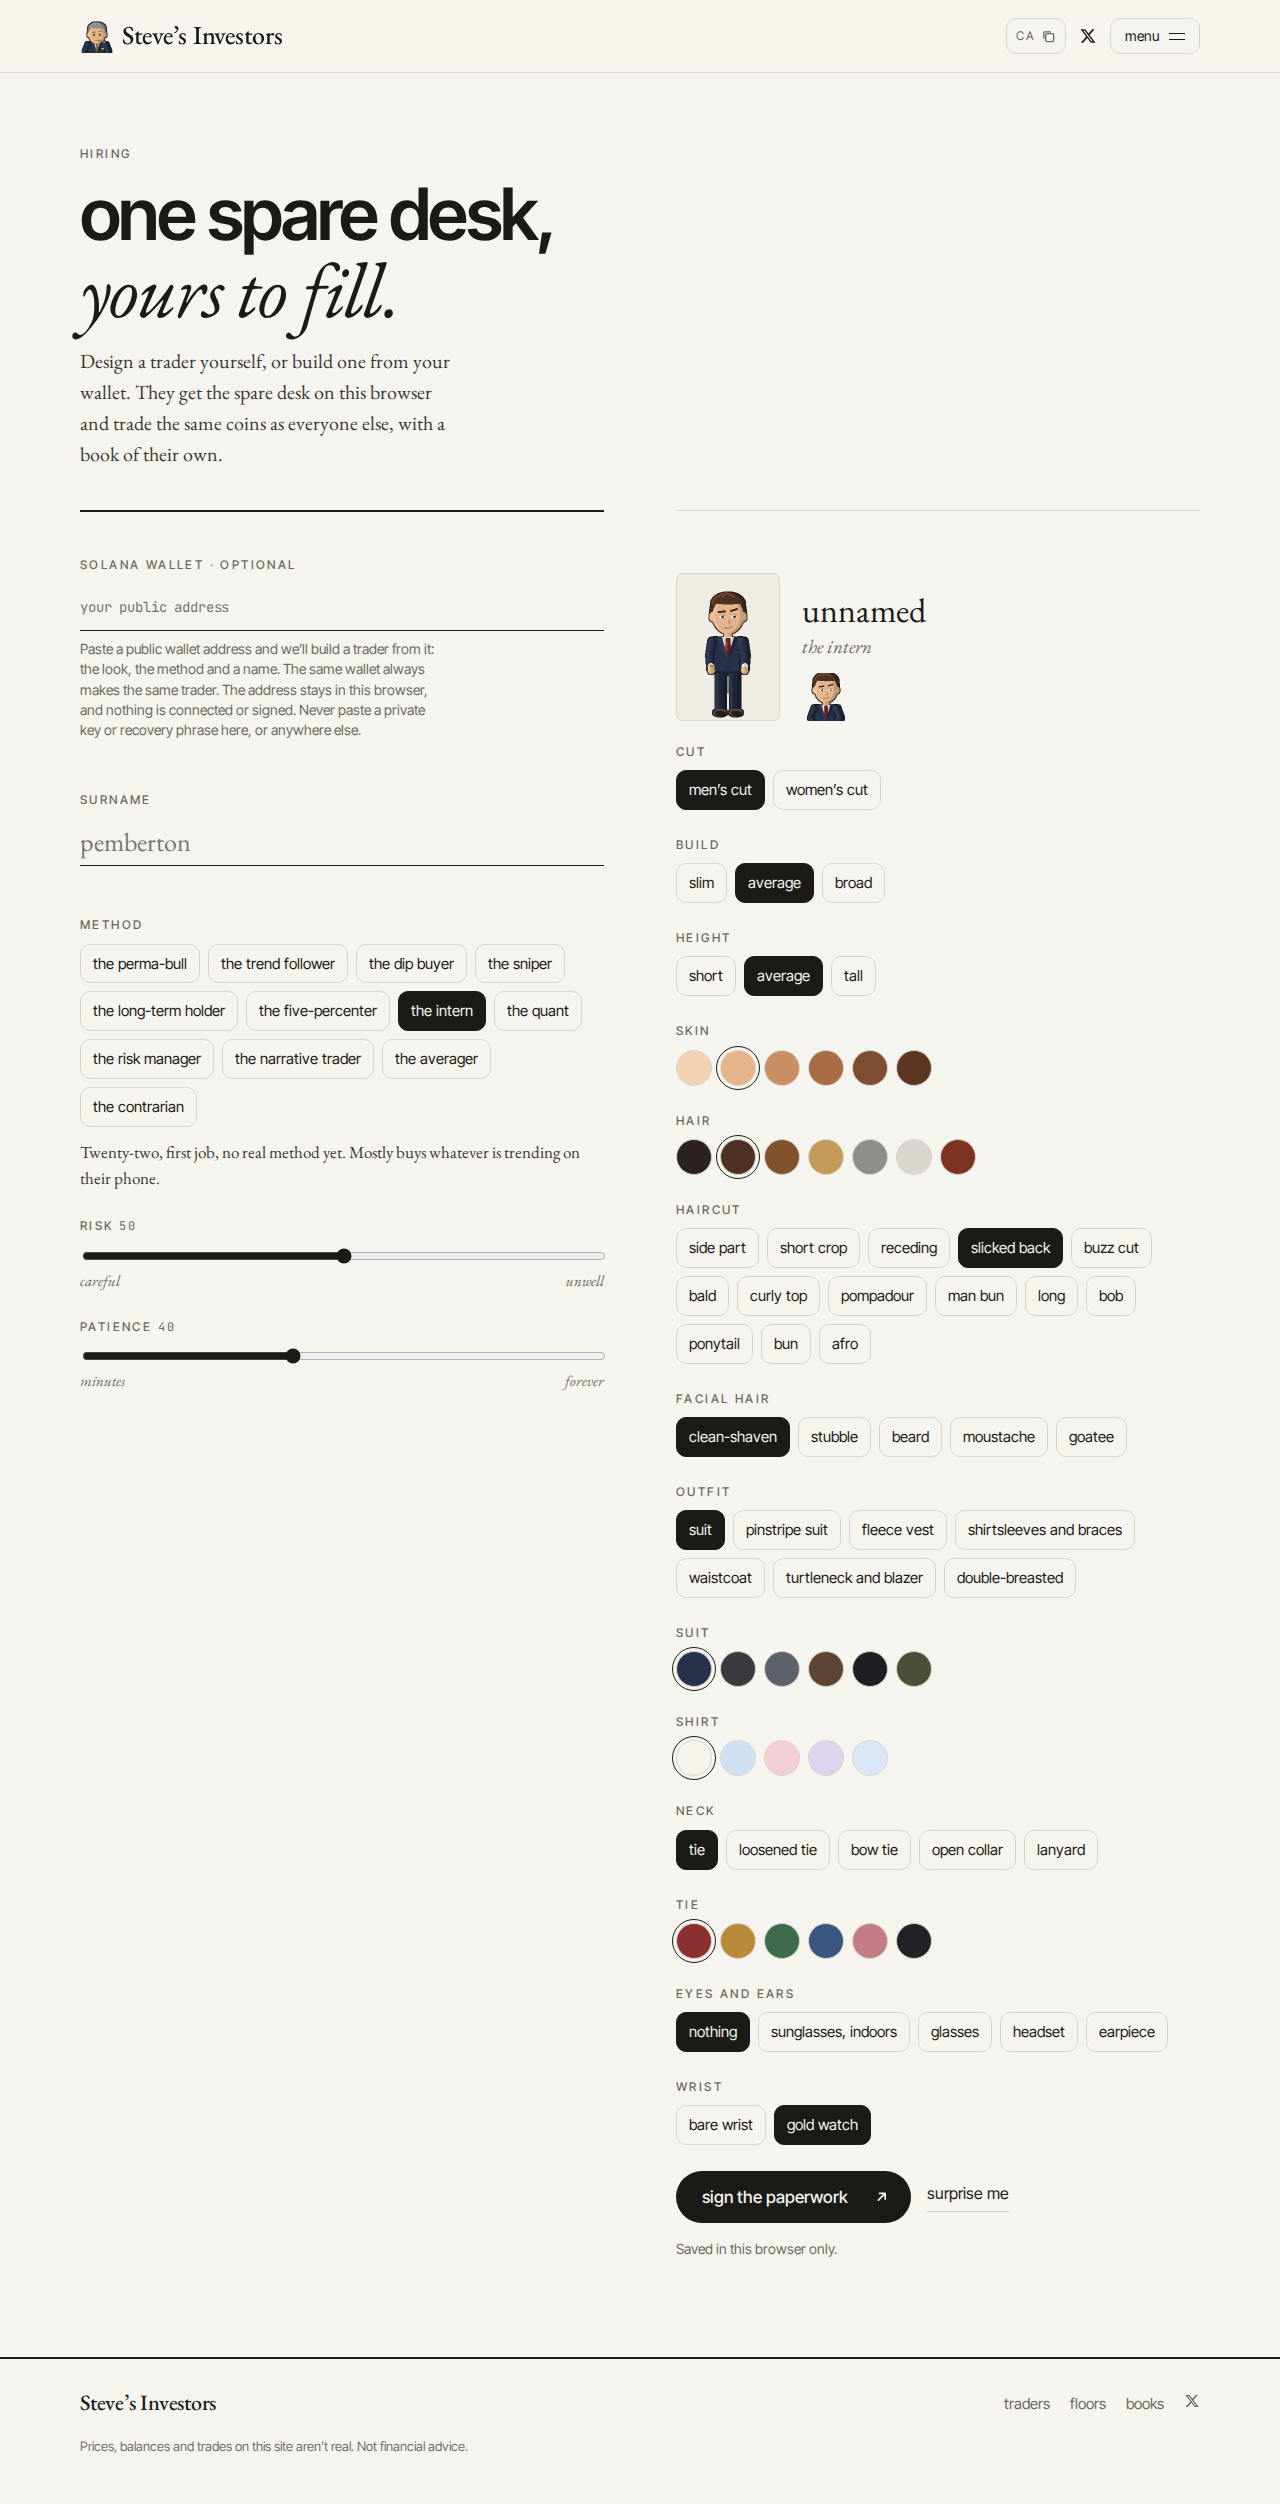
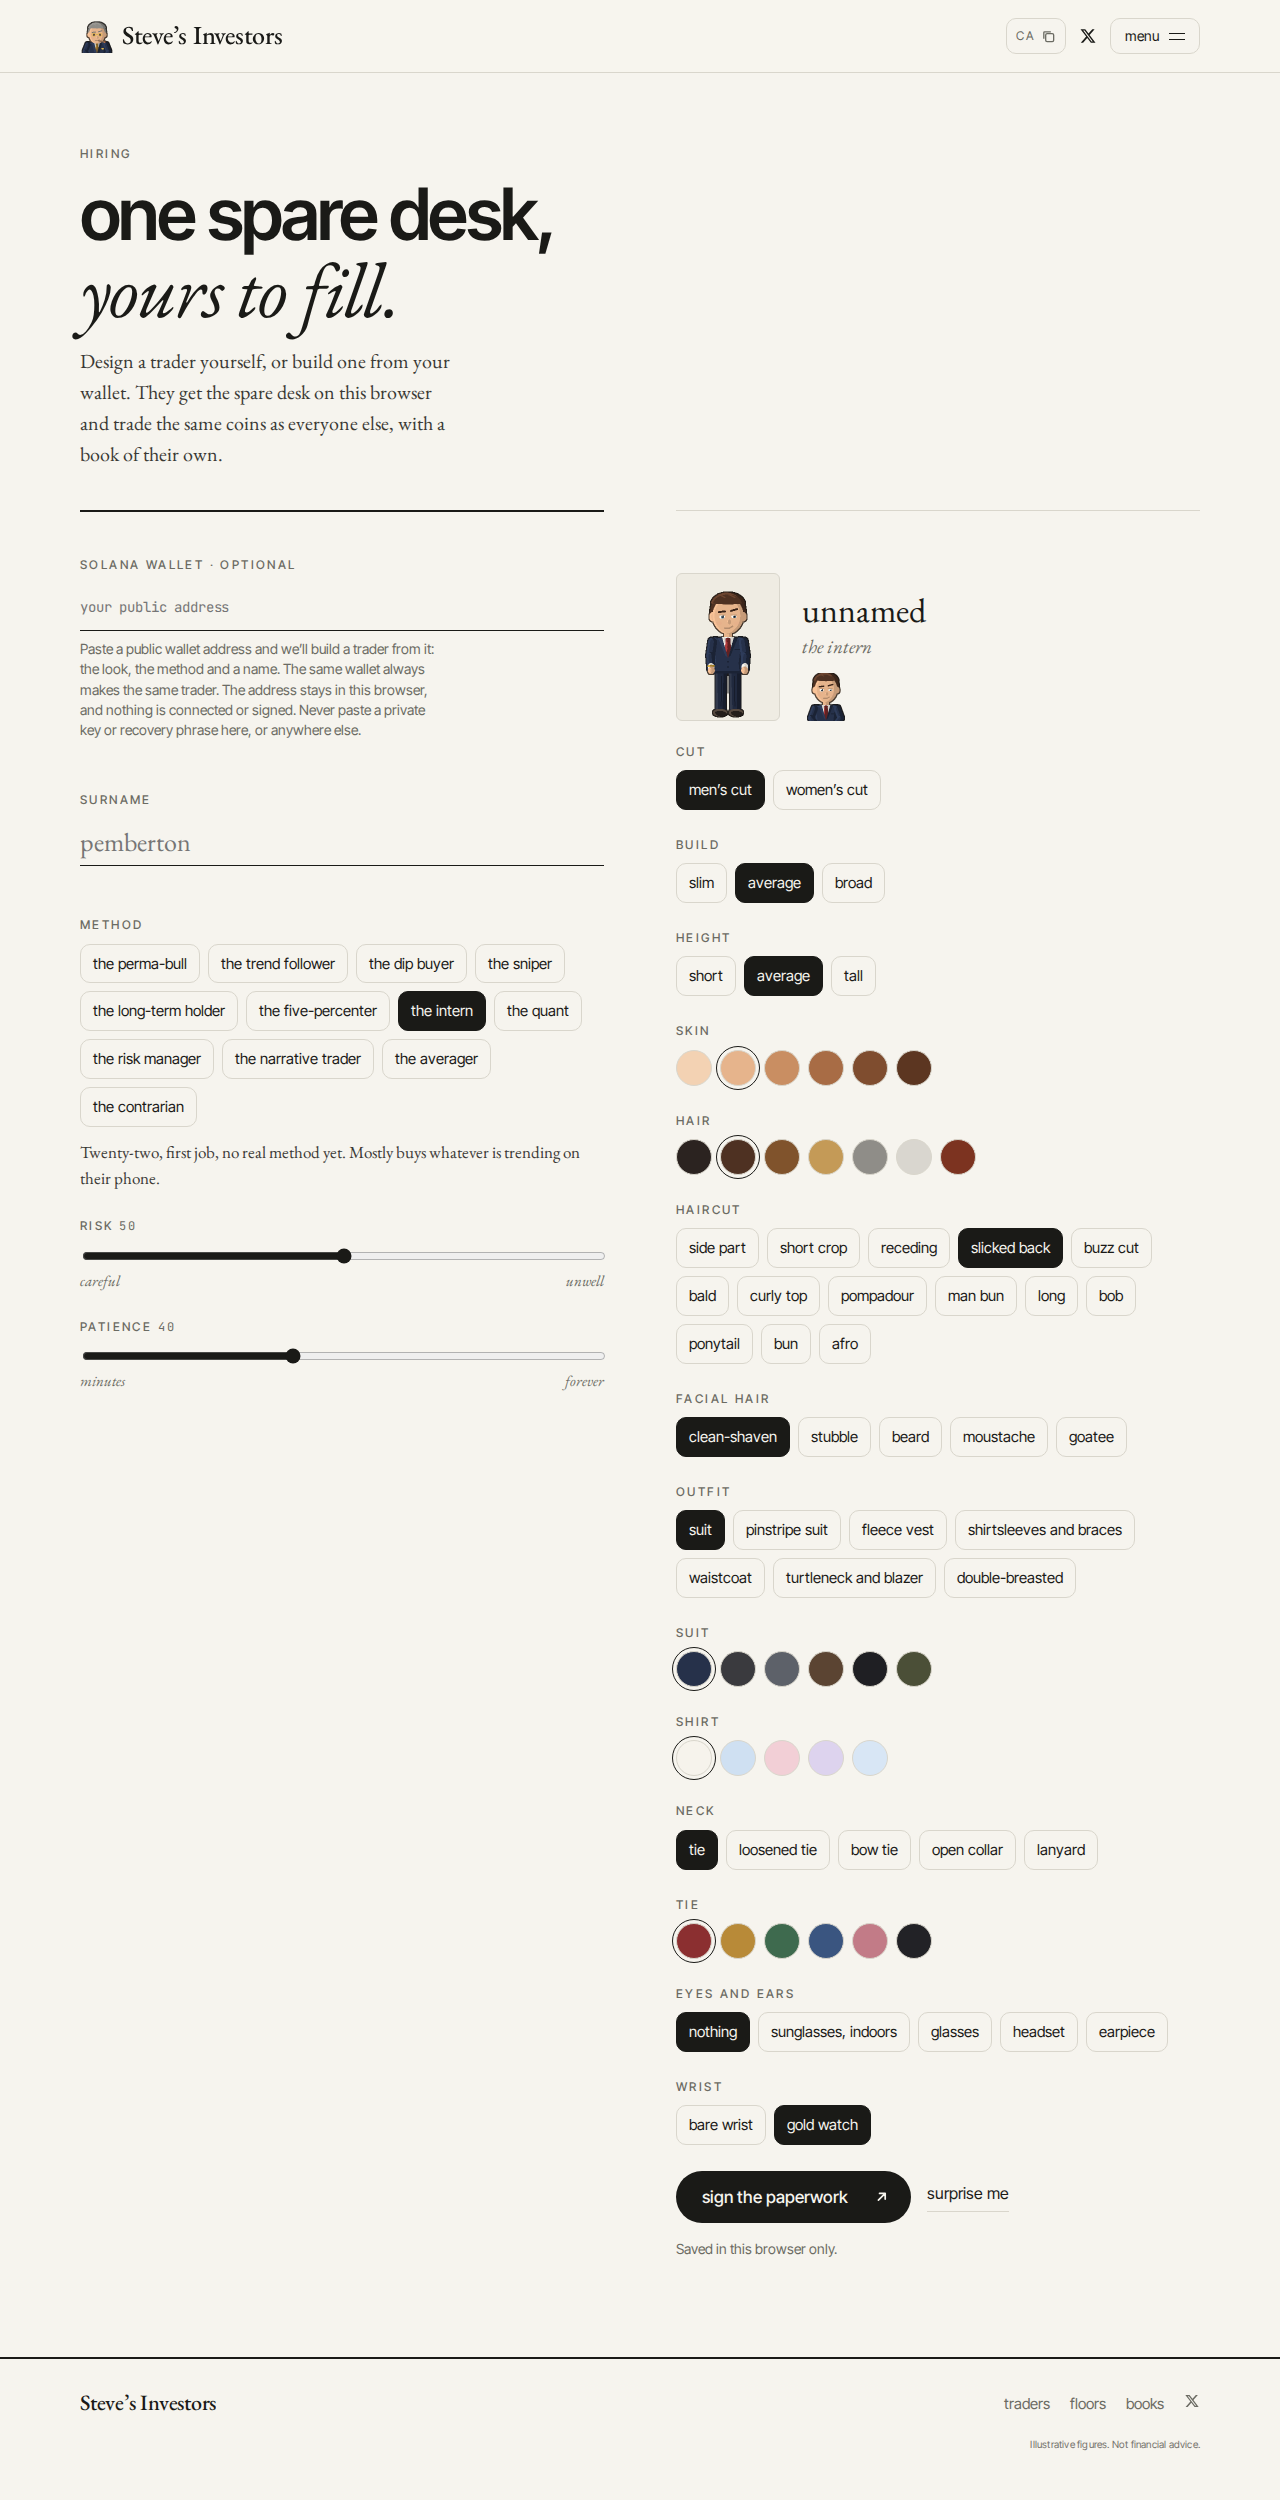
Shrink the footer note to one small corner line; avoid wallet name clashes
Claude-Session: https://claude.ai/code/session_01LdV1XKV4toobn6gdWAhJmP

diff --git a/src/routes/Hire.tsx b/src/routes/Hire.tsx
@@ -234,9 +234,9 @@ export default function Hire() {
     setPatience(Math.round(ARCHETYPES[arch].patience * 100));
   }, [arch]);
 
-  const taken = useMemo(() => new Set([...state.traders, ...state.waiting].map((t) => t.name)), [state.traders, state.waiting]);
+  const taken = useMemo(() => new Set([...state.traders, ...state.waiting].map((t) => t.name.toLowerCase())), [state.traders, state.waiting]);
   const clean = cleanName(name).trim();
-  const error = !clean ? 'A surname, please.' : taken.has(clean) ? 'That name is already on a desk.' : null;
+  const error = !clean ? 'A surname, please.' : taken.has(clean.toLowerCase()) ? 'That name is already on a desk.' : null;
   const hired = state.mine[0];
   const walletCheck = checkWallet(wallet);
 
@@ -257,8 +257,10 @@ export default function Hire() {
       setRisk(Math.round(w.risk * 100));
       setPatience(Math.round(w.patience * 100));
       setLook(w.look);
-      if (!clean || clean === walletName.current) setName(w.name);
-      walletName.current = w.name;
+      // Names are shared with the floor; if the wallet's pick is taken, add a suffix.
+      const pick = taken.has(w.name) ? `${w.name.slice(0, 13)} ii` : w.name;
+      if (!clean || clean === walletName.current) setName(pick);
+      walletName.current = pick;
       setWalletSeed(w.seed);
       setWalletNote({ text: 'Built from your wallet. You can still change anything below.', bad: false });
     } else {

diff --git a/src/copy.ts b/src/copy.ts
@@ -45,4 +45,4 @@ export const SINCE = {
 };
 
 /** The only disclaimer on the site. */
-export const FOOTER_NOTE = 'Prices, balances and trades on this site aren’t real. Not financial advice.';
+export const FOOTER_NOTE = 'Illustrative figures. Not financial advice.';

diff --git a/src/styles/site.css b/src/styles/site.css
@@ -885,9 +885,11 @@ main {
 }
 .footer-small {
   width: 100%;
-  font-size: 13px;
+  font-size: 10px;
+  letter-spacing: 0.02em;
   color: var(--faint);
   margin: 6px 0 0;
+  text-align: right;
 }
 .footer nav {
   display: flex;
